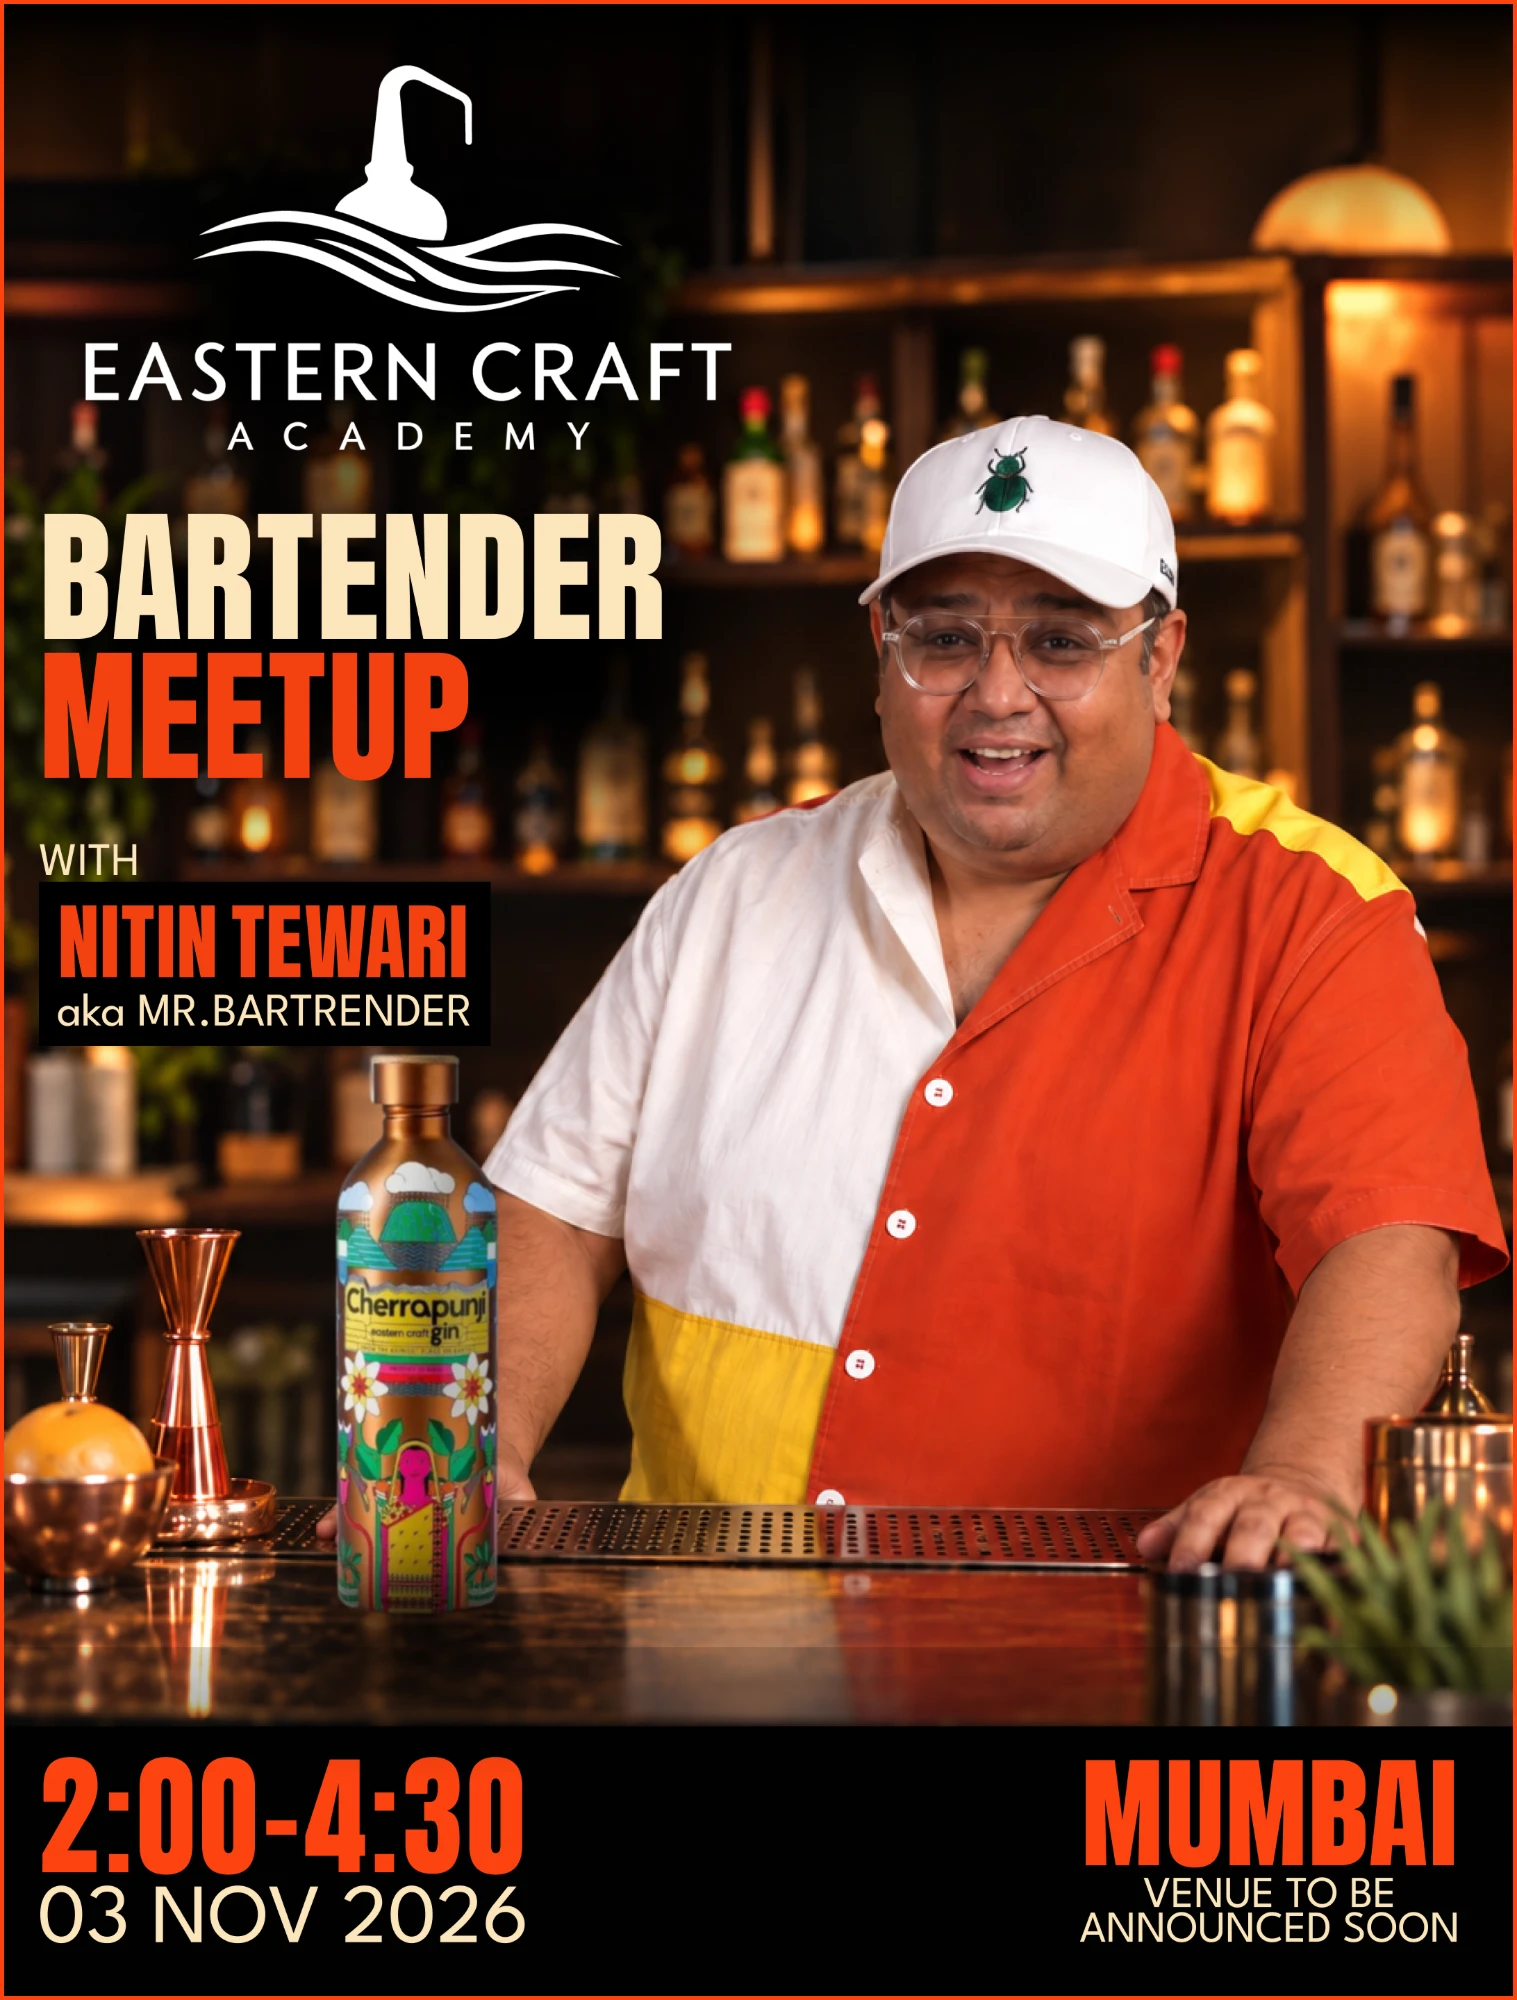
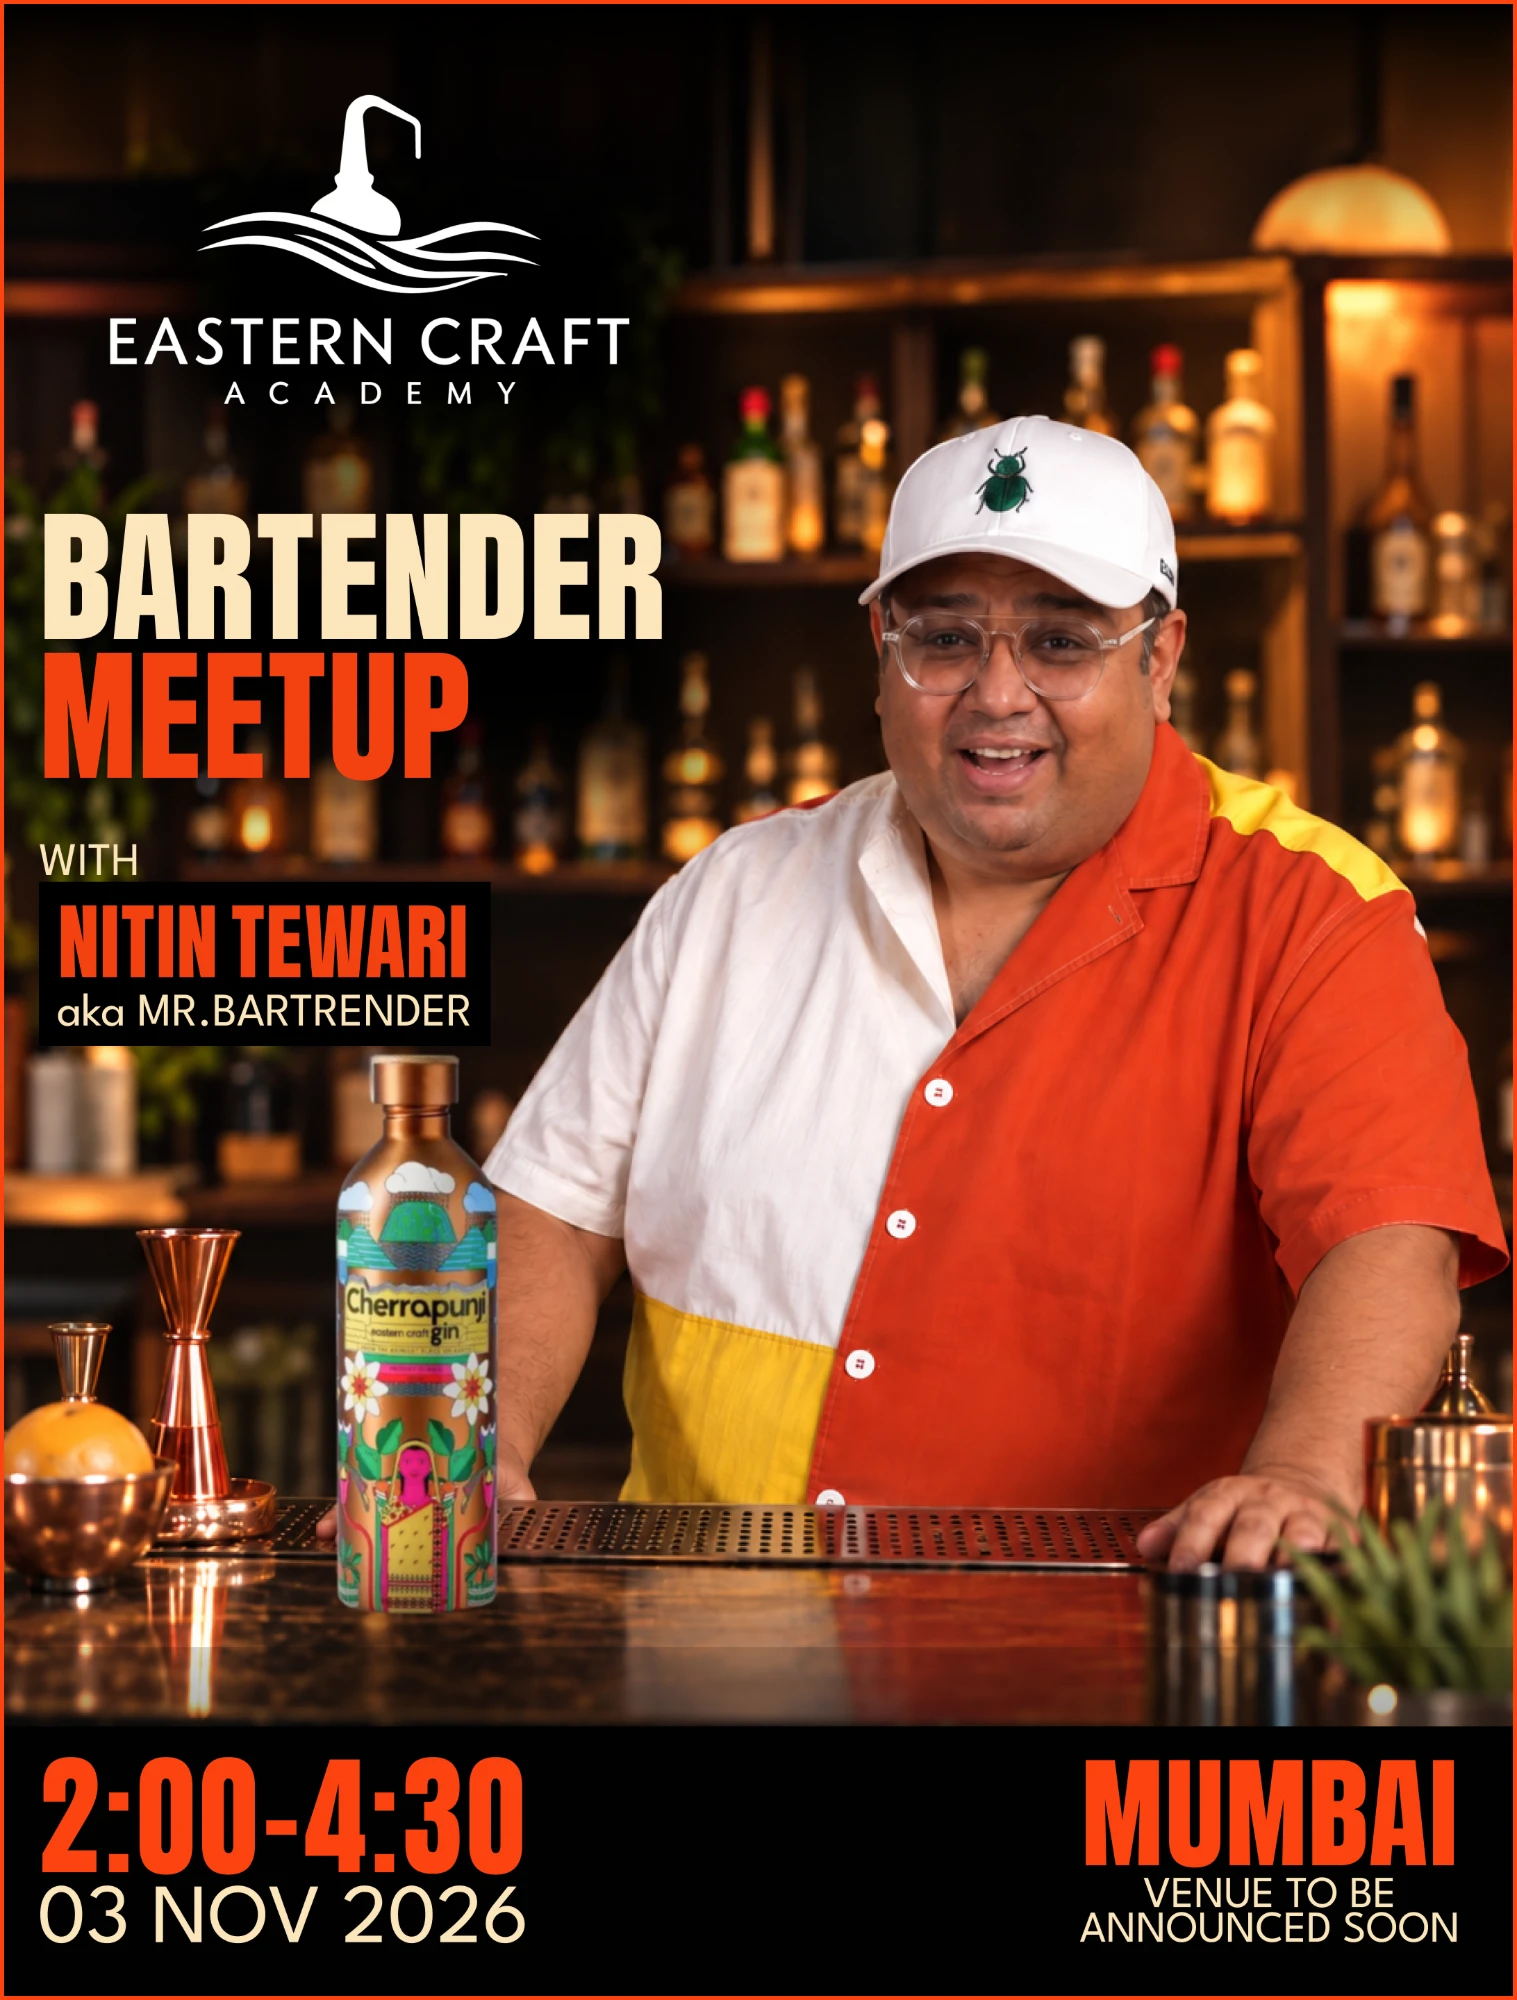
Add bar name field, new flyer and shortlist message

Changed region(s): [[0.062, 0.031, 0.4957, 0.217], [0.2169, 0.589, 0.3408, 0.837]]

diff --git a/index.html b/index.html
@@ -121,6 +121,11 @@
         <input id="name" name="name" type="text" autocomplete="name" required />
       </div>
       <div class="field">
+        <label for="bar">Bar name</label>
+        <input id="bar" name="bar" type="text" autocomplete="organization" required />
+        <p class="hint">The bar you currently work at.</p>
+      </div>
+      <div class="field">
         <label for="phone">Phone number</label>
         <input id="phone" name="phone" type="tel" autocomplete="tel" required />
       </div>
@@ -143,7 +148,7 @@
 
     <div class="done" id="done" hidden>
       <h2 id="done-title">You're on the list.</h2>
-      <p id="done-text">See you at the bar.</p>
+      <p id="done-text">Once you’re shortlisted, we’ll send you the invite.</p>
       <p style="margin-top:16px"><a href="#" id="again">Change my RSVP</a></p>
     </div>
 
@@ -166,12 +171,13 @@
       const f = new FormData(form);
       const data = {
         name: (f.get('name') || '').trim(),
+        bar: (f.get('bar') || '').trim(),
         phone: (f.get('phone') || '').trim(),
         email: (f.get('email') || '').trim(),
         rsvp: f.get('rsvp') || '',
       };
 
-      if (!data.name || !data.phone || !data.email || !data.rsvp) {
+      if (!data.name || !data.bar || !data.phone || !data.email || !data.rsvp) {
         msg.textContent = 'Please fill in every field.';
         return;
       }
@@ -200,7 +206,7 @@
           data.rsvp === 'Yes' ? 'You’re on the list.' : 'Thanks for letting us know.';
         document.getElementById('done-text').textContent =
           data.rsvp === 'Yes'
-            ? (out.updated ? 'Your RSVP was updated. See you at the bar.' : 'See you at the bar.')
+            ? (out.updated ? 'Your RSVP was updated. ' : '') + 'Once you’re shortlisted, we’ll send you the invite.'
             : 'Hope to catch you at the next one.';
         form.hidden = true;
         done.hidden = false;

diff --git a/README.md b/README.md
@@ -1,6 +1,6 @@
 # Guest Shift RSVP
 
-A one-page RSVP form. Guests enter their name, phone, email and Yes/No. Each response goes into a Google Sheet.
+A one-page RSVP form. Guests enter their name, bar name, phone, email and Yes/No. Each response goes into a Google Sheet.
 
 - `index.html` is the page you host.
 - `apps-script/Code.gs` is the small Google script that writes responses to the sheet.
